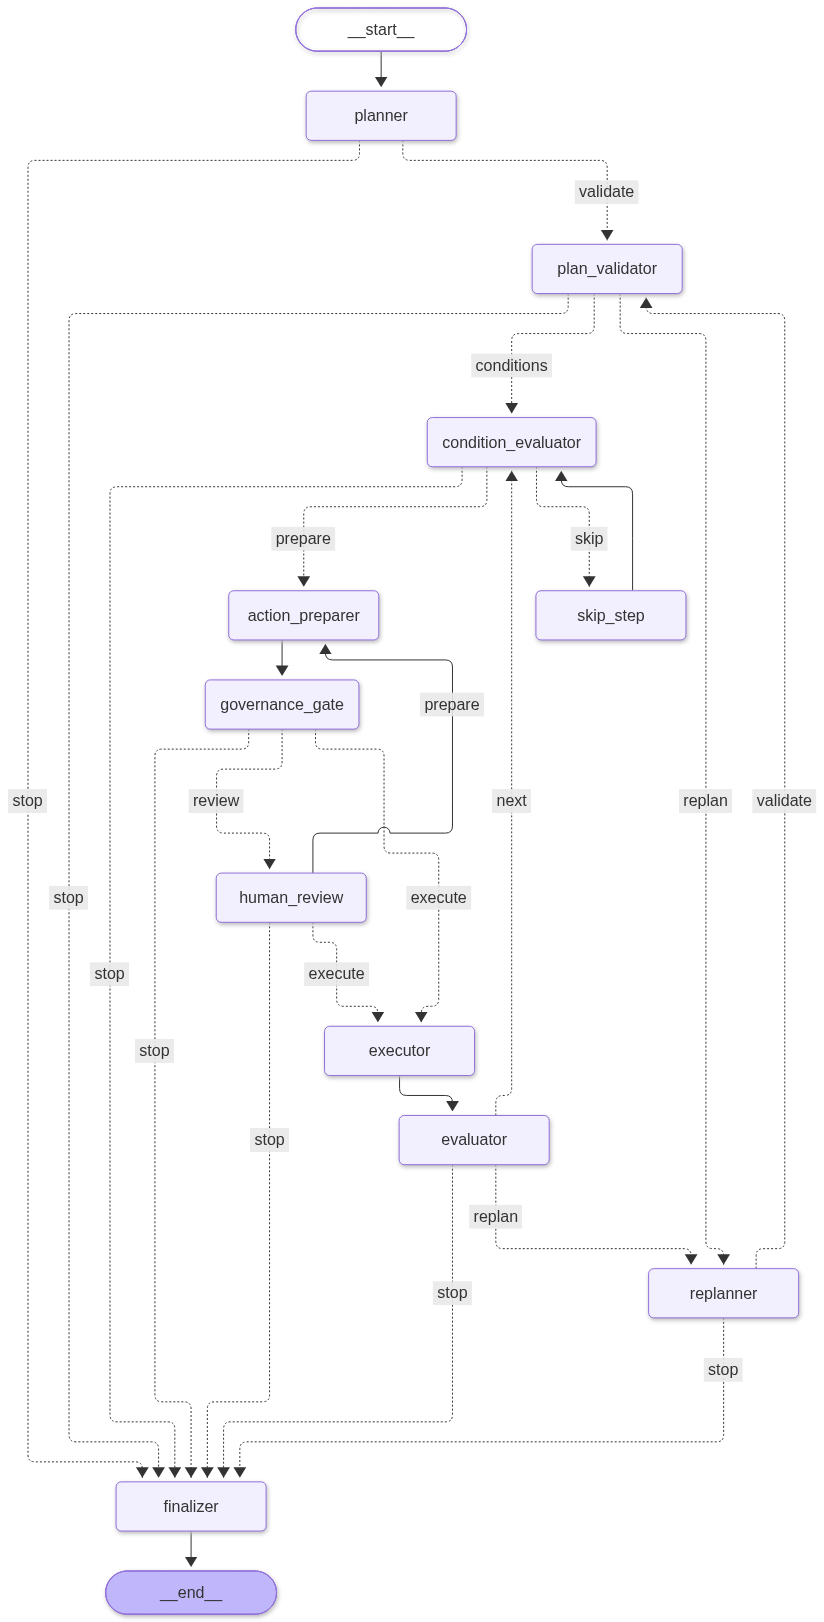
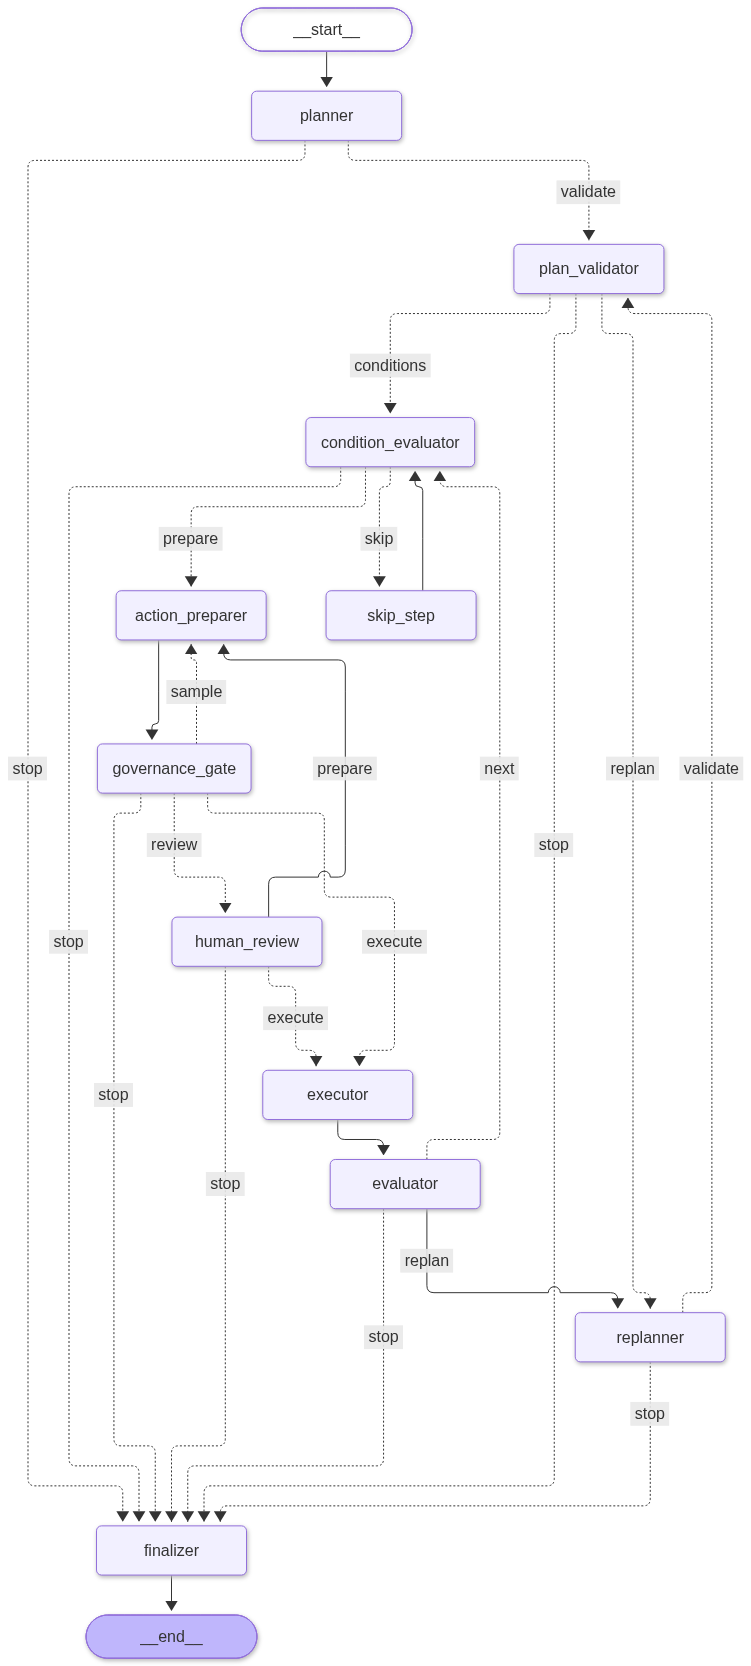
fixed graph routing

diff --git a/Agent/graph.py b/Agent/graph.py
@@ -167,6 +167,17 @@ from functools import partial
 from Agent.tools.register_tools import create_tool_registry
 
 tool_registry = create_tool_registry()
+
+
+from Agent.nodes.governance_gate_node import (
+    governance_gate,
+    route_after_governance,
+)
+
+from Agent.nodes.human_review_node import (
+    human_review,
+    route_after_review,
+)
 # --------------------------------------------------
 # Routing functions
 # --------------------------------------------------
@@ -347,20 +358,21 @@ def build_planning_graph(checkpointer=None):
         {
             "execute": "executor",
             "review": "human_review",
+            "sample": "action_preparer",
             "stop": "finalizer",
         }
-    )
+)
 
     # Human approval
     builder.add_conditional_edges(
-        "human_review",
-        route_after_human_review,
-        {
-            "execute": "executor",
-            "prepare": "action_preparer",
-            "stop": "finalizer",
-        }
-    )
+    "human_review",
+    route_after_review,
+    {
+        "execute": "executor",
+        "prepare": "action_preparer",
+        "stop": "finalizer",
+    }
+)
 
     # Execute approved action
     builder.add_edge(
